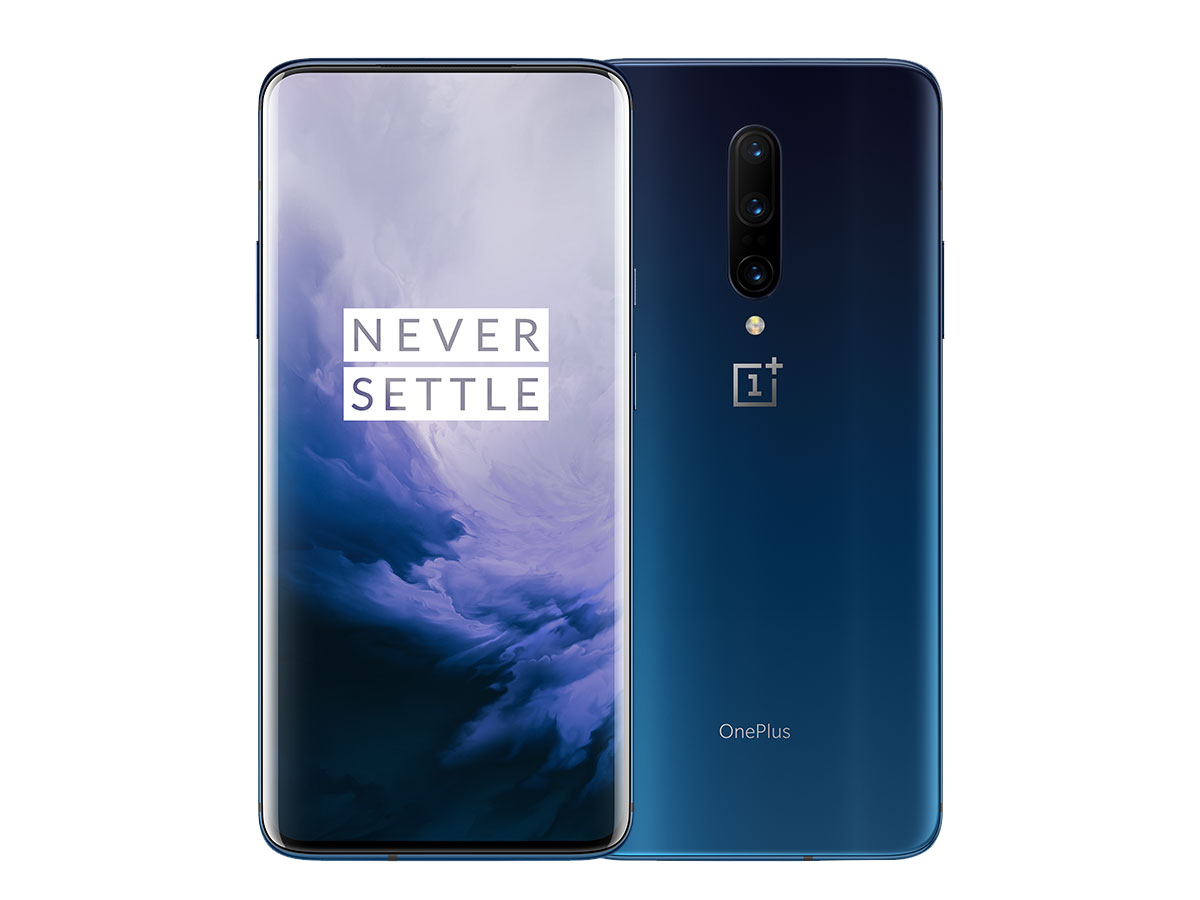
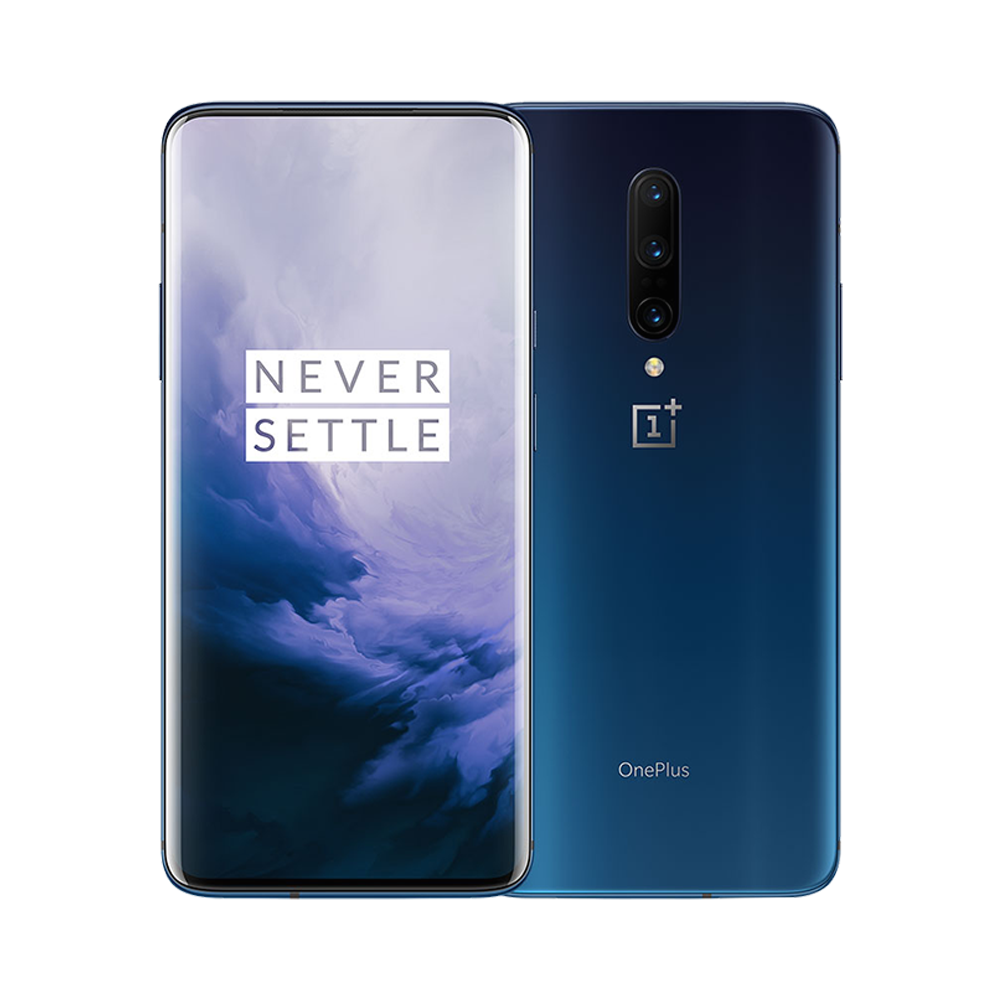
updated images to all be the same size

diff --git a/products/templates/products/products.html b/products/templates/products/products.html
@@ -1,0 +1,123 @@
+{% extends "base.html" %}
+{% load static %}
+
+{% block page_header %}
+    <div class="container header-container">
+        <div class="row">
+            <div class="col"></div>
+        </div>
+    </div>
+{% endblock %}
+
+{% block content %}
+    <div class="overlay"></div>
+    <div class="container-fluid">
+        <div class="row">
+            <div class="col text-center mt-3">
+                <h2 class="logo-font">Products</h2>
+                {% for c in current_categories %}
+                    <a href="{% url 'products' %}?category={{ c.name }}" class="category-badge text-decoration-none">
+                        <span class="p-2 m-2 badge badge-white text-black rounded-0 border border-dark">
+                            {{ c.friendly_name }}
+                        </span>
+                    </a>
+                {% endfor %}
+                <hr class="w-50 mb-1">
+            </div>
+        </div>
+        <div class="row">
+            <div class="product-container col-10 offset-1">
+                <div class="row mt-1 mb-2"></div>
+                    <div class="row mt-1 mb-2">
+                    <div class="col-12 col-md-6 my-auto order-md-last d-flex justify-content-center justify-content-md-end">
+                        <div class="sort-select-wrapper w-50">
+                            <select id="sort-selector" class="custom-select custom-select-sm rounded-0 border border-{% if current_sorting != 'None_None' %}info{% else %}black{% endif %}">
+                                <option value="reset" {% if current_sorting == 'None_None' %}selected{% endif %}>Sort by...</option>
+                                <option value="price_asc" {% if current_sorting == 'price_asc' %}selected{% endif %}>Price (low to high)</option>
+                                <option value="price_desc" {% if current_sorting == 'price_desc' %}selected{% endif %}>Price (high to low)</option>
+                                <option value="rating_asc" {% if current_sorting == 'rating_asc' %}selected{% endif %}>Rating (low to high)</option>
+                                <option value="rating_desc" {% if current_sorting == 'rating_desc' %}selected{% endif %}>Rating (high to low)</option>
+                                <option value="name_asc" {% if current_sorting == 'name_asc' %}selected{% endif %}>Name (A-Z)</option>
+                                <option value="name_desc" {% if current_sorting == 'name_desc' %}selected{% endif %}>Name (Z-A)</option>
+                                <option value="category_asc" {% if current_sorting == 'category_asc' %}selected{% endif %}>Category (A-Z)</option>
+                                <option value="category_desc" {% if current_sorting == 'category_desc' %}selected{% endif %}>Category (Z-A)</option>
+                            </select>
+                        </div>
+                    </div>
+                    <div class="col-12 col-md-6 order-md-first">
+                        <p class="text-muted mt-3 text-center text-md-left">
+                            {% if search_term or current_categories or current_sorting != 'None_None' %}
+                                <span class="small"><a href="{% url 'products' %}">Products Home</a> | </span>
+                            {% endif %}
+                            {{ products|length }} Products{% if search_term %} found for <strong>"{{ search_term }}"</strong>{% endif %}
+                        </p>
+                    </div>
+                </div>
+                <div class="row">
+                    {% for product in products %}
+                        <div class="col-sm-6 col-md-6 col-lg-4 col-xl-3">
+                            <div class="card h-100 border-0">
+                                {% if product.image %}
+                                <a href="{% url 'product_detail' product.id %}">
+                                    <img class="card-img-top img-fluid" src="{{ product.image }}" alt="{{ product.name }}">
+                                </a>
+                                {% else %}
+                                <a href="{% url 'product_detail' product.id %}">
+                                    <img class="card-img-top img-fluid" src="{{ MEDIA_URL }}noimage.png" alt="{{ product.name }}">
+                                </a>
+                                {% endif %}
+                                <div class="card-body pb-0">
+                                    <p class="mb-0">{{ product.name }}</p>
+                                </div>
+                                <div class="card-footer bg-white pt-0 border-0 text-left">
+                                    <div class="row">
+                                        <div class="col">
+                                            <p class="lead mb-0 text-left font-weight-bold">${{ product.price }}</p>
+                                            {% if product.category %}
+                                                <p class="small mt-1 mb-0">
+                                                    <a href="{% url 'products' %}?category={{ product.category.name }}" class="text-muted">
+                                                        <i class="fas fa-tag mr-1"></i>{{ product.category.friendly_name }}
+                                                    </a>
+                                                </p>
+                                            {% endif %}
+                                            {% if product.rating %}
+                                                <small class="text-muted"><i class="fas fa-star mr-1"></i>{{ product.rating }} / 5</small>
+                                            {% else %}
+                                                <small class="text-muted">No Rating</small>
+                                            {% endif %}
+                                        </div>
+                                    </div>
+                                </div>
+                            </div>
+                        </div>
+                        {% if forloop.counter|divisibleby:1 %}
+                            <div class="col-12 d-sm-none mb-5">
+                                <hr>
+                            </div>
+                        {% endif %}                        
+                        {% if forloop.counter|divisibleby:2 %}
+                            <div class="col-12 d-none d-sm-block d-md-block d-lg-none mb-5">
+                                <hr>
+                            </div>
+                        {% endif %}
+                        {% if forloop.counter|divisibleby:3 %}
+                            <div class="col-12 d-none d-lg-block d-xl-none mb-5">
+                                <hr>
+                            </div>
+                        {% endif %}
+                        {% if forloop.counter|divisibleby:4 %}
+                            <div class="col-12 d-none d-xl-block mb-5">
+                                <hr>
+                            </div>
+                        {% endif %}
+                    {% endfor %}
+                </div>
+            </div>
+        </div>
+    </div>
+    <div class="btt-button shadow-sm rounded-0 border border-black">
+        <a class="btt-link d-flex h-100">
+            <i class="fas fa-arrow-up text-black mx-auto my-auto"></i>
+        </a>
+    </div>
+{% endblock %}

diff --git a/products/views.py b/products/views.py
@@ -1,3 +1,72 @@
-from django.shortcuts import render
+from django.shortcuts import render, get_object_or_404, redirect, reverse
+from django.contrib import messages
+from django.db.models import Q
+from django.db.models.functions import Lower
+
+from .models import Product, Category
 
 # Create your views here.
+
+
+def all_products(request):
+    """ a view to return all_products.html, including sorting and searching """
+
+    products = Product.objects.all()
+    query = None
+    categories = None
+    sort = None
+    direction = None
+
+    if request.GET:
+        if 'sort' in request.GET:
+            sortkey = request.GET['sort']
+            sort = sortkey
+            if sortkey == 'name':
+                sortkey = 'lower_name'
+                products = products.annotate(lower_name=Lower('name'))
+
+            if sortkey == 'category':
+                sortkey = 'category__name'
+
+            if 'direction' in request.GET:
+                direction = request.GET['direction']
+                if direction == 'desc':
+                    sortkey = f'-{sortkey}'
+            products = products.order_by(sortkey)
+
+        if 'category' in request.GET:
+            categories = request.GET['category'].split(',')
+            products = products.filter(category__name__in=categories)
+            categories = Category.objects.filter(name__in=categories)
+
+        if 'q' in request.GET:
+            query = request.GET['q']
+            if not query:
+                messages.error(request, 'You didnt enter any search criteria!')
+                return redirect(reverse('products'))
+
+            queries = Q(name__icontains=query) | Q(description__icontains=query)
+            products = products.filter(queries)
+
+    current_sorting = f'{sort}_{direction}'
+
+    context = {
+        'products': products,
+        'search_term': query,
+        'current_categories': categories,
+        'current_sorting': current_sorting,
+    }
+
+    return render(request, 'products/products.html', context)
+
+
+def product_detail(request, product_id):
+    """ a view to return a specific product details """
+
+    products = get_object_or_404(Product, pk=product_id)
+
+    context = {
+        'product': products,
+    }
+
+    return render(request, 'products/product_detail.html', context)

diff --git a/products/migrations/0003_auto_20201224_1853.py b/products/migrations/0003_auto_20201224_1853.py
@@ -1,0 +1,23 @@
+# Generated by Django 3.1.4 on 2020-12-24 18:53
+
+from django.db import migrations, models
+
+
+class Migration(migrations.Migration):
+
+    dependencies = [
+        ('products', '0002_auto_20201224_1120'),
+    ]
+
+    operations = [
+        migrations.RenameField(
+            model_name='product',
+            old_name='release',
+            new_name='release_date',
+        ),
+        migrations.AddField(
+            model_name='product',
+            name='release_year',
+            field=models.IntegerField(default=False),
+        ),
+    ]

diff --git a/products/models.py b/products/models.py
@@ -24,7 +24,8 @@ class Product(models.Model):
     sku = models.CharField(max_length=254, null=True, blank=True)
     brand = models.CharField(max_length=254)
     name = models.CharField(max_length=254)
-    release = models.CharField(max_length=254)
+    release_date = models.CharField(max_length=254)
+    release_year = models.IntegerField(default=False, blank=False, null=False)
     size = models.CharField(max_length=254)
     os = models.CharField(max_length=254)
     screen_size = models.CharField(max_length=254)

diff --git a/Top_Watch/urls.py b/Top_Watch/urls.py
@@ -23,4 +23,5 @@ urlpatterns = [
     path('admin/', admin.site.urls),
     path('accounts/', include('allauth.urls')),
     path('', include('home.urls')),
+    path('products/', include('products.urls')),
 ] + static(settings.MEDIA_URL, document_root=settings.MEDIA_ROOT)

diff --git a/products/urls.py b/products/urls.py
@@ -1,0 +1,7 @@
+from django.urls import path
+from . import views
+
+urlpatterns = [
+    path('', views.all_products, name='products'),
+    path('<product_id>', views.product_detail, name='product_detail')
+]
